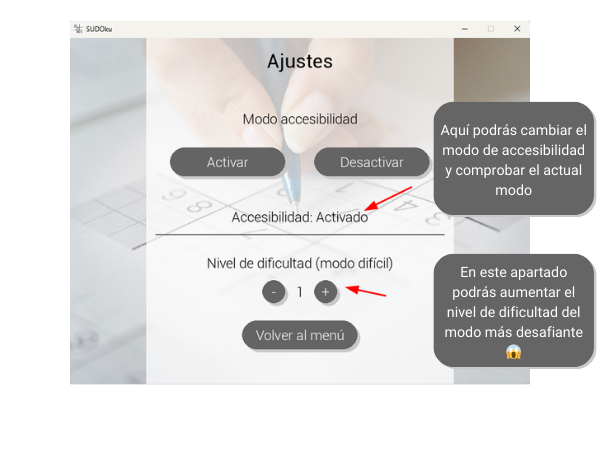
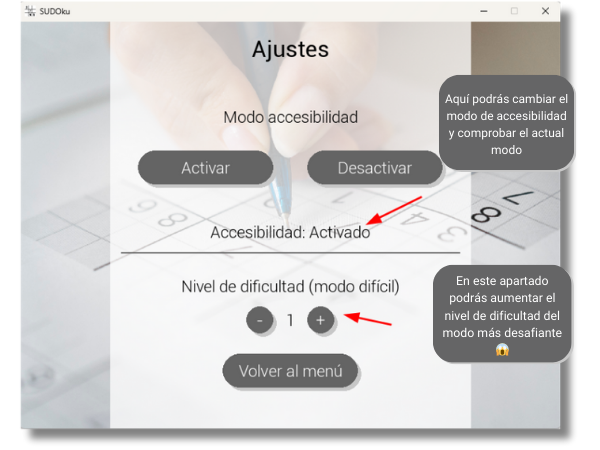
feat: Agregar imágenes de tutorial al juego y menú tutorial funcional

diff --git a/main.py b/main.py
@@ -499,7 +499,194 @@ class Juego:
                 self.pantalla.blit(imagen_cruz, rect.topleft)
 
     def ver_tutorial(self):
-        print("Ver tutorial")  # Aquí iría la lógica para mostrar el tutorial
+        en_tutorial = True
+
+        tutorial = pygame.image.load(globals.RUTA_TUTORIAL_1)
+
+        while en_tutorial:
+            self.pantalla.fill(globals.BLANCO)
+
+            self.pantalla.blit(tutorial, ((globals.PANTALLA_ANCHO - 600) // 2, 50))
+
+            boton_volver = self.dibujar_boton("Volver al menú", (globals.PANTALLA_ANCHO - 700) // 2, globals.PANTALLA_ALTO - 90, 200, 50, globals.GRIS_CLARO, globals.MORADO_CLARO)
+            boton_siguiente = self.dibujar_boton("Siguiente", (globals.PANTALLA_ANCHO + 300) // 2, globals.PANTALLA_ALTO - 90, 200, 50, globals.GRIS_CLARO, globals.MORADO_CLARO)
+
+            for evento in pygame.event.get():
+                if evento.type == pygame.QUIT:
+                    pygame.quit()
+                    sys.exit()
+                if evento.type == pygame.MOUSEBUTTONDOWN:
+                    mouse_pos = evento.pos
+                    if boton_volver.collidepoint(mouse_pos):
+                        en_tutorial = False
+                        self.mostrar_menu()
+                    elif boton_siguiente.collidepoint(mouse_pos):
+                        en_tutorial = False
+                        self.ver_tutorial_pagina2()
+            
+            pygame.display.flip()
+            pygame.time.Clock().tick(60) # 60 FPS
+    
+    def ver_tutorial_pagina2(self):
+        en_tutorial = True
+
+        tutorial = pygame.image.load(globals.RUTA_TUTORIAL_2)
+
+        while en_tutorial:
+            self.pantalla.fill(globals.BLANCO)
+
+            self.pantalla.blit(tutorial, ((globals.PANTALLA_ANCHO - 600) // 2, 50))
+
+            boton_volver = self.dibujar_boton("Volver al menú", (globals.PANTALLA_ANCHO - 700) // 2, globals.PANTALLA_ALTO - 90, 200, 50, globals.GRIS_CLARO, globals.MORADO_CLARO)
+            boton_anterior = self.dibujar_boton("Anterior", (globals.PANTALLA_ANCHO - 200) // 2, globals.PANTALLA_ALTO - 90, 200, 50, globals.GRIS_CLARO, globals.MORADO_CLARO)
+            boton_siguiente = self.dibujar_boton("Siguiente", (globals.PANTALLA_ANCHO + 300) // 2, globals.PANTALLA_ALTO - 90, 200, 50, globals.GRIS_CLARO, globals.MORADO_CLARO)
+
+            for evento in pygame.event.get():
+                if evento.type == pygame.QUIT:
+                    pygame.quit()
+                    sys.exit()
+                if evento.type == pygame.MOUSEBUTTONDOWN:
+                    mouse_pos = evento.pos
+                    if boton_volver.collidepoint(mouse_pos):
+                        en_tutorial = False
+                        self.mostrar_menu()
+                    elif boton_anterior.collidepoint(mouse_pos):
+                        en_tutorial = False
+                        self.ver_tutorial()
+                    elif boton_siguiente.collidepoint(mouse_pos):
+                        en_tutorial = False
+                        self.ver_tutorial_pagina3()
+            
+            pygame.display.flip()
+            pygame.time.Clock().tick(60) # 60 FPS
+
+    def ver_tutorial_pagina3(self):
+        en_tutorial = True
+
+        tutorial = pygame.image.load(globals.RUTA_TUTORIAL_3)
+
+        while en_tutorial:
+            self.pantalla.fill(globals.BLANCO)
+
+            self.pantalla.blit(tutorial, ((globals.PANTALLA_ANCHO - 600) // 2, 50))
+
+            boton_volver = self.dibujar_boton("Volver al menú", (globals.PANTALLA_ANCHO - 700) // 2, globals.PANTALLA_ALTO - 90, 200, 50, globals.GRIS_CLARO, globals.MORADO_CLARO)
+            boton_anterior = self.dibujar_boton("Anterior", (globals.PANTALLA_ANCHO - 200) // 2, globals.PANTALLA_ALTO - 90, 200, 50, globals.GRIS_CLARO, globals.MORADO_CLARO)
+            boton_siguiente = self.dibujar_boton("Siguiente", (globals.PANTALLA_ANCHO + 300) // 2, globals.PANTALLA_ALTO - 90, 200, 50, globals.GRIS_CLARO, globals.MORADO_CLARO)
+
+            for evento in pygame.event.get():
+                if evento.type == pygame.QUIT:
+                    pygame.quit()
+                    sys.exit()
+                if evento.type == pygame.MOUSEBUTTONDOWN:
+                    mouse_pos = evento.pos
+                    if boton_volver.collidepoint(mouse_pos):
+                        en_tutorial = False
+                        self.mostrar_menu()
+                    elif boton_anterior.collidepoint(mouse_pos):
+                        en_tutorial = False
+                        self.ver_tutorial_pagina2()
+                    elif boton_siguiente.collidepoint(mouse_pos):
+                        en_tutorial = False
+                        self.ver_tutorial_pagina4()
+            
+            pygame.display.flip()
+            pygame.time.Clock().tick(60) # 60 FPS
+    
+    def ver_tutorial_pagina4(self):
+        en_tutorial = True
+
+        tutorial = pygame.image.load(globals.RUTA_TUTORIAL_4)
+
+        while en_tutorial:
+            self.pantalla.fill(globals.BLANCO)
+
+            self.pantalla.blit(tutorial, ((globals.PANTALLA_ANCHO - 600) // 2, 50))
+
+            boton_volver = self.dibujar_boton("Volver al menú", (globals.PANTALLA_ANCHO - 700) // 2, globals.PANTALLA_ALTO - 90, 200, 50, globals.GRIS_CLARO, globals.MORADO_CLARO)
+            boton_anterior = self.dibujar_boton("Anterior", (globals.PANTALLA_ANCHO - 200) // 2, globals.PANTALLA_ALTO - 90, 200, 50, globals.GRIS_CLARO, globals.MORADO_CLARO)
+            boton_siguiente = self.dibujar_boton("Siguiente", (globals.PANTALLA_ANCHO + 300) // 2, globals.PANTALLA_ALTO - 90, 200, 50, globals.GRIS_CLARO, globals.MORADO_CLARO)
+
+            for evento in pygame.event.get():
+                if evento.type == pygame.QUIT:
+                    pygame.quit()
+                    sys.exit()
+                if evento.type == pygame.MOUSEBUTTONDOWN:
+                    mouse_pos = evento.pos
+                    if boton_volver.collidepoint(mouse_pos):
+                        en_tutorial = False
+                        self.mostrar_menu()
+                    elif boton_anterior.collidepoint(mouse_pos):
+                        en_tutorial = False
+                        self.ver_tutorial_pagina3()
+                    elif boton_siguiente.collidepoint(mouse_pos):
+                        en_tutorial = False
+                        self.ver_tutorial_pagina5()
+            
+            pygame.display.flip()
+            pygame.time.Clock().tick(60) # 60 FPS
+
+    def ver_tutorial_pagina5(self):
+        en_tutorial = True
+
+        tutorial = pygame.image.load(globals.RUTA_TUTORIAL_5)
+
+        while en_tutorial:
+            self.pantalla.fill(globals.BLANCO)
+
+            self.pantalla.blit(tutorial, ((globals.PANTALLA_ANCHO - 600) // 2, 50))
+
+            boton_volver = self.dibujar_boton("Volver al menú", (globals.PANTALLA_ANCHO - 700) // 2, globals.PANTALLA_ALTO - 90, 200, 50, globals.GRIS_CLARO, globals.MORADO_CLARO)
+            boton_anterior = self.dibujar_boton("Anterior", (globals.PANTALLA_ANCHO - 200) // 2, globals.PANTALLA_ALTO - 90, 200, 50, globals.GRIS_CLARO, globals.MORADO_CLARO)
+            boton_siguiente = self.dibujar_boton("Siguiente", (globals.PANTALLA_ANCHO + 300) // 2, globals.PANTALLA_ALTO - 90, 200, 50, globals.GRIS_CLARO, globals.MORADO_CLARO)
+
+            for evento in pygame.event.get():
+                if evento.type == pygame.QUIT:
+                    pygame.quit()
+                    sys.exit()
+                if evento.type == pygame.MOUSEBUTTONDOWN:
+                    mouse_pos = evento.pos
+                    if boton_volver.collidepoint(mouse_pos):
+                        en_tutorial = False
+                        self.mostrar_menu()
+                    elif boton_anterior.collidepoint(mouse_pos):
+                        en_tutorial = False
+                        self.ver_tutorial_pagina4()
+                    elif boton_siguiente.collidepoint(mouse_pos):
+                        en_tutorial = False
+                        self.ver_tutorial_pagina6()
+            
+            pygame.display.flip()
+            pygame.time.Clock().tick(60) # 60 FPS
+
+    def ver_tutorial_pagina6(self):
+        en_tutorial = True
+
+        tutorial = pygame.image.load(globals.RUTA_TUTORIAL_6)
+
+        while en_tutorial:
+            self.pantalla.fill(globals.BLANCO)
+
+            self.pantalla.blit(tutorial, ((globals.PANTALLA_ANCHO - 600) // 2, 50))
+
+            boton_volver = self.dibujar_boton("Volver al menú", (globals.PANTALLA_ANCHO - 700) // 2, globals.PANTALLA_ALTO - 90, 200, 50, globals.GRIS_CLARO, globals.MORADO_CLARO)
+            boton_anterior = self.dibujar_boton("Anterior", (globals.PANTALLA_ANCHO - 200) // 2, globals.PANTALLA_ALTO - 90, 200, 50, globals.GRIS_CLARO, globals.MORADO_CLARO)
+
+            for evento in pygame.event.get():
+                if evento.type == pygame.QUIT:
+                    pygame.quit()
+                    sys.exit()
+                if evento.type == pygame.MOUSEBUTTONDOWN:
+                    mouse_pos = evento.pos
+                    if boton_volver.collidepoint(mouse_pos):
+                        en_tutorial = False
+                        self.mostrar_menu()
+                    elif boton_anterior.collidepoint(mouse_pos):
+                        en_tutorial = False
+                        self.ver_tutorial_pagina5()
+            
+            pygame.display.flip()
+            pygame.time.Clock().tick(60) # 60 FPS
 
     def ver_creditos(self):
         #TODO COMPLETAR
@@ -1023,7 +1210,6 @@ class Tablero:
             self.pantalla.blit(texto, texto_rect)
 
     def comprobar_solucion(self):
-        print("comprobando solución")
         for fila in range(9):
             for columna in range(9):
                 if self.inicial[fila, columna] == 0:  # Solo comprobar celdas que no estaban rellenas inicialmente
@@ -1033,10 +1219,8 @@ class Tablero:
                         self.iluminar_celda(fila, columna, globals.VERDE)
         self.dibujar_tablero_comprobado()
         pygame.display.update()
-        # si está bien muestra un mensaje de enhorabuena
 
     def dibujar_tablero_comprobado(self):
-        print("dibujando tablero")
         for fila in range(9):
             for columna in range(9):
                 valor = self.sudoku[fila][columna]
@@ -1055,7 +1239,6 @@ class Tablero:
             pygame.draw.line(self.pantalla, globals.NEGRO, (globals.MARGEN + i * globals.TAMAÑO_CELDA, globals.MARGEN), (globals.MARGEN + i * globals.TAMAÑO_CELDA, globals.MARGEN + 9 * globals.TAMAÑO_CELDA), grosor)
 
     def mostrar_solucion(self):
-        print("Mostrando la solución")
         self.borrar_tablero()
         for fila in range(9):
             for columna in range(9):

diff --git a/globals.py b/globals.py
@@ -23,6 +23,13 @@ RUTA_COLOREADO = os.path.join(directorio_actual, "img", "coloreado.png")
 RUTA_LEYENDA = os.path.join(directorio_actual, "img", "leyenda.png")
 RUTA_LOGO_UJA = os.path.join(directorio_actual, "img", "uja-logo.png")
 RUTA_LOGO_EPSJ = os.path.join(directorio_actual, "img", "epsj-logo.png")
+RUTA_TUTORIAL_1 = os.path.join(directorio_actual, "img", "tutorial", "1.png")
+RUTA_TUTORIAL_2 = os.path.join(directorio_actual, "img", "tutorial", "2.png")
+RUTA_TUTORIAL_3 = os.path.join(directorio_actual, "img", "tutorial", "3.png")
+RUTA_TUTORIAL_4 = os.path.join(directorio_actual, "img", "tutorial", "4.png")
+RUTA_TUTORIAL_5 = os.path.join(directorio_actual, "img", "tutorial", "5.png")
+RUTA_TUTORIAL_6 = os.path.join(directorio_actual, "img", "tutorial", "6.png")
+
 
 ARCHIVO_PUNTUACION = os.path.join(directorio_actual, "puntuacion.csv")
 ARCHIVO_CONFIGURACION = os.path.join(directorio_actual, "configuracion.csv")
